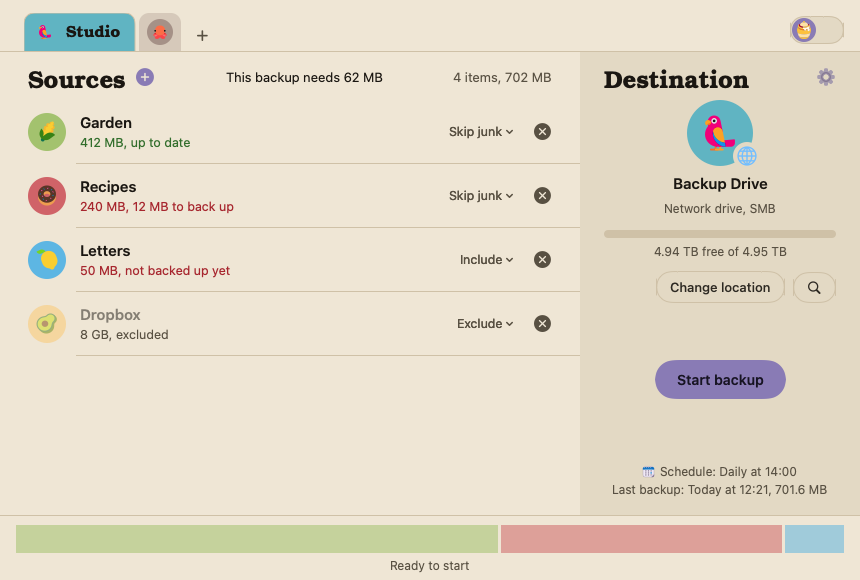
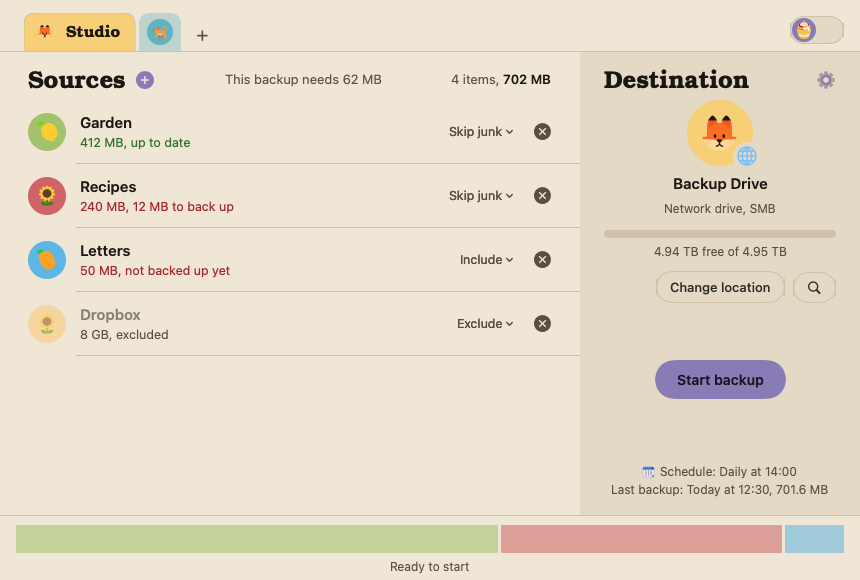
Archivist 0.0.17 — Steadier layout: the bottom bar never moves, header items line up.

diff --git a/Archivist/JobView.swift b/Archivist/JobView.swift
@@ -33,10 +33,10 @@ struct JobView: View {
     var body: some View {
         VStack(spacing: 0) {
             HStack(alignment: .top, spacing: 0) {   // top: a tall column never pushes its title up
-                SourcesPane(view: self)
+                SourcesPane(view: self).frame(minHeight: 0)
                 DestinationPane(view: self)
                     .frame(width: 280)
-                    .frame(maxHeight: .infinity, alignment: .top).clipped()   // never taller than Sources: the row ends at the bottom bar
+                    .frame(minHeight: 0, maxHeight: .infinity, alignment: .top).clipped()   // never taller than Sources, and no say in the window's smallest size (Start ↔ Stop changed it)
                     
             }
             BottomBar(view: self)
@@ -243,7 +243,7 @@ struct SourcesPane: View {
         VStack(alignment: .leading, spacing: 0) {
             HStack(alignment: .center) {   // centred in a fixed row, like Destination's: the titles' tops line up
                 Text("Sources").font(Typeface.title(24)).foregroundStyle(Palette.ink)
-                AddButton(view: view)
+                AddButton(view: view).offset(y: 3)   // the serif title sits low in its line: everything in the row centres on its letters
                 Spacer()
                 // What this backup will copy, between the title and the count: it lived under the space
                 // bar, and appearing there made the Destination box grow and push the page.
@@ -252,13 +252,16 @@ struct SourcesPane: View {
                     let free = view.space?.free ?? .max
                     Text(needed <= free ? "This backup needs \(bytes(needed))" : "Needs \(bytes(needed)), \(bytes(needed - free)) more than is free")
                         .font(Typeface.text(13, needed <= free ? .regular : .semibold))
-                        .foregroundStyle(needed <= free ? Palette.ink : Palette.warn)
+                        .foregroundStyle(needed <= free ? Palette.soft : Palette.warn)
                         .lineLimit(1)
+                        .offset(y: 1.5)
                     Spacer()
                 }
                 if !job.sources.isEmpty {
-                    Text("\(job.sources.count) \(job.sources.count == 1 ? "item" : "items"), \(bytes(total))")
+                    (Text("\(job.sources.count) \(job.sources.count == 1 ? "item" : "items"), ")
+                     + Text(bytes(total)).fontWeight(.semibold).foregroundColor(Palette.ink))
                         .font(Typeface.text(13)).foregroundStyle(Palette.soft)
+                        .offset(y: 1.5)
                 }
             }
             .frame(height: 30)
@@ -400,6 +403,7 @@ struct DestinationPane: View {
                 Spacer()
                 Button { NotificationCenter.default.post(name: .showSettings, object: nil) } label: { Emoji(name: "gear", size: 20) }
                     .buttonStyle(.plain).help("Settings: name, picture, schedule, drive type, delete")
+                    .offset(y: 3)   // centred on the title's letters, like Sources' plus
             }
             .frame(height: 30)
             .frame(height: Header.height, alignment: .bottom).padding(.bottom, Header.below)   // same box as Sources'
@@ -583,7 +587,7 @@ struct BottomBar: View {
             let estimating = r.running && !r.finishing && r.remaining(at: tl.date) == nil
             GeometryReader { g in
                 let w = g.size.width - Double(3 * max(chunks.count - 1, 0))
-                VStack(alignment: .leading, spacing: 5) {
+                VStack(alignment: .leading, spacing: 0) {
                     ZStack(alignment: .leading) {
                         if chunks.isEmpty { Rectangle().fill(Palette.rule) }
                         HStack(spacing: 3) {
@@ -644,11 +648,12 @@ struct BottomBar: View {
                         .foregroundStyle(r.running ? Palette.ink : Palette.soft)
                         .frame(maxWidth: .infinity)
                     }
+                    .frame(height: 27)   // centred between the bar and the window's bottom edge
                 }
             }
         }
-        .frame(height: 28 + 5 + 16)
-        .padding(.horizontal, 16).padding(.top, 10).padding(.bottom, 6)
+        .frame(height: 28 + 27)
+        .padding(.horizontal, 16).padding(.top, 10)
         .background(Palette.ground)
         .overlay(alignment: .top) { Rectangle().fill(Palette.rule).frame(height: 1) }
     }

diff --git a/Archivist/ArchivistApp.swift b/Archivist/ArchivistApp.swift
@@ -23,7 +23,7 @@ struct ArchivistApp: App {
             RootView()
                 .environment(store)
                 .modifier(AppearanceChoice())
-                .frame(width: 860).frame(minHeight: 427)   // width fixed; smallest holds exactly four source rows (measured: the window adds 32 for its title bar)
+                .frame(width: 860).frame(minHeight: 417)   // width fixed; smallest holds exactly four source rows (measured: the window adds 32 for its title bar)
         }
         .windowStyle(.hiddenTitleBar)
         .defaultSize(width: 860, height: 580)
